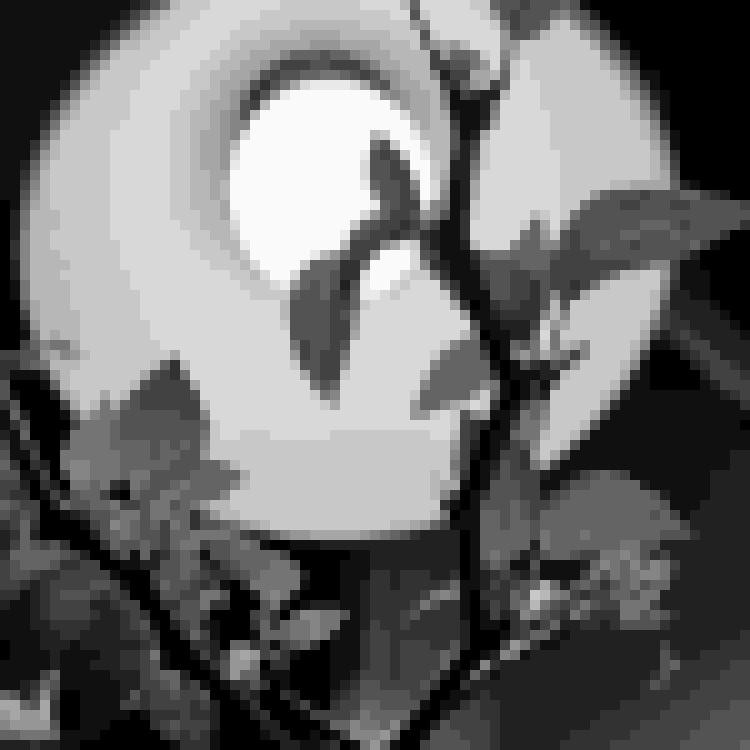
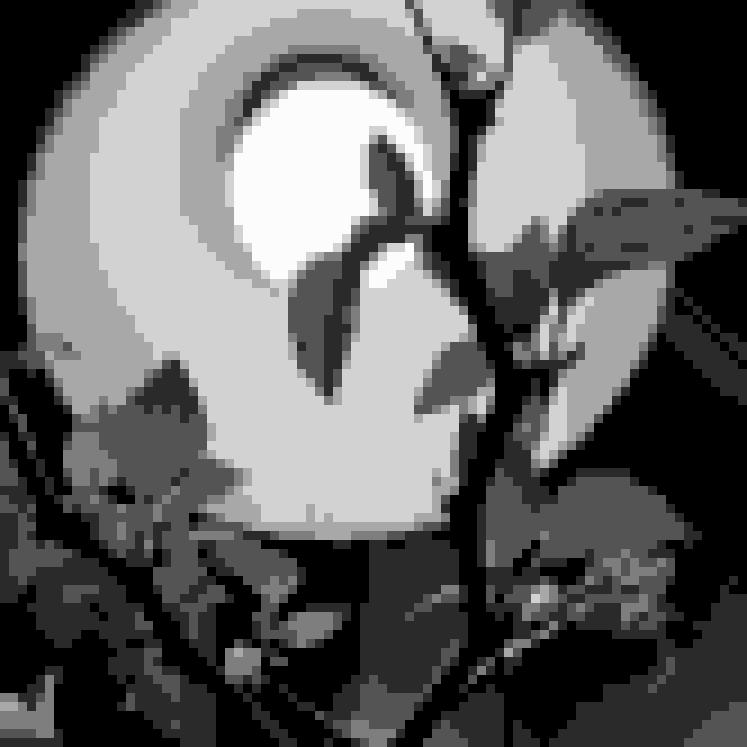
Сделано задание №2

diff --git a/filter.py b/filter.py
@@ -1,28 +1,48 @@
-from PIL import Image
 import numpy as np
+from PIL import Image
+
+
+def crop_img(pixels, distance):
+    height_overflow = len(pixels) % distance
+    width_overflow = len(pixels[1]) % distance
+    return pixels[:len(pixels) - height_overflow, :len(pixels[0]) - width_overflow]
+
+
+def get_average_brightness(pixels, x, y, distance):
+    brightness = 0
+    for x_n in range(x, x + distance):
+        for y_n in range(y, y + distance):
+            [r, g, b] = pixels[y_n][x_n]
+            pixel = np.array([r, g, b]).astype(np.int32)
+            brightness += int(np.sum(pixel))
+    return brightness // distance**2
+
+
+def change_to_color(pixels, x, y, color, distance):
+    for y_n in range(y, y + distance):
+        for x_n in range(x, x + distance):
+            pixels[y_n][x_n] = color
+
+
 img = Image.open("img2.jpg")
-arr = np.array(img)
-a = len(arr)
-a1 = len(arr[1])
-i = 0
-while i < a:
-    j = 0
-    while j < a1:
-        s = 0
-        for n in range(i, i + 10):
-            for n1 in range(j, j + 10):
-                p1 = arr[n][n1][0]
-                p2 = arr[n][n1][1]
-                p3 = arr[n][n1][2]
-                M = np.array([p1, p2, p3]).astype(np.int32)
-                s += sum(M)
-        s = int(s // 100)
-        for n in range(i, i + 10):
-            for n1 in range(j, j + 10):
-                arr[n][n1][0] = int((s // 50) * 50)/3
-                arr[n][n1][1] = int((s // 50) * 50)/3
-                arr[n][n1][2] = int((s // 50) * 50)/3
-        j = j + 10
-    i = i + 10
-res = Image.fromarray(arr)
+pixels = np.array(img)
+distance = int(input("Размер мозайки: "))
+gradation = int(input("Градаций серого: "))
+gradation_step = 256 // gradation
+
+pixels = crop_img(pixels, distance)
+height = len(pixels)
+width = len(pixels[1])
+
+for x in range(0, width, distance):
+    for y in range(0, height, distance):
+        avg_brightness = get_average_brightness(pixels, x, y, distance) / 3
+        color = np.full(
+            3,
+            int(avg_brightness//gradation_step) * gradation_step,
+            dtype=np.uint8
+        )
+        change_to_color(pixels, x, y, color, distance)
+
+res = Image.fromarray(pixels)
 res.save('res.jpg')
